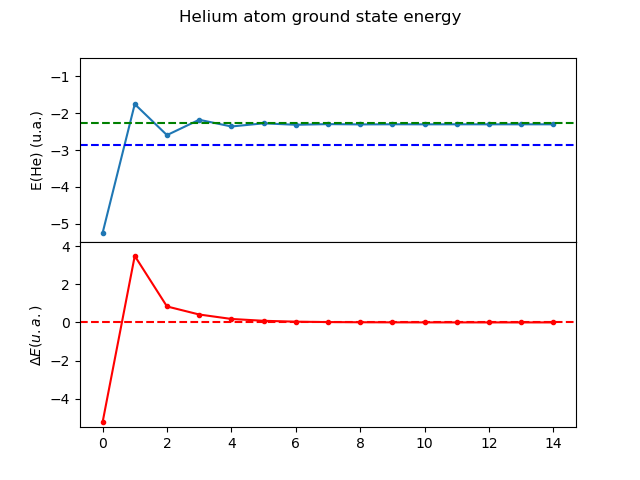
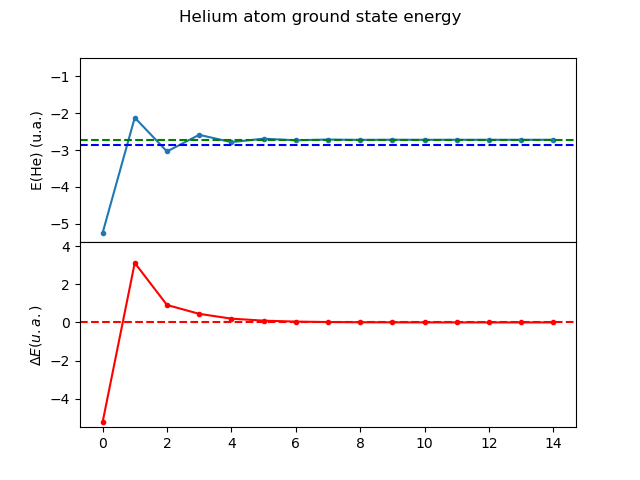
Fixed bug in calculation of LDA energy.

diff --git a/gscf.md b/gscf.md
@@ -2,19 +2,6 @@
 
 </div>
 
-<div class="SETUP drawer">
-
-``` python
-import numpy as np
-from scipy.integrate import odeint
-from scipy import integrate
-from scipy import interpolate
-from scipy.optimize import root_scalar
-import matplotlib.pyplot as plt
-```
-
-</div>
-
 # Introduction
 
 The Schrodinger equation is a certain class of Boundary Value Problem
@@ -88,9 +75,9 @@ $$
 $$
 
 $$
-\frac{1}{\sin{\theta}}\left (-\frac{\partial}{\partial \theta} \left( \sin{\theta} \frac{\partial}{\partial \theta} \right)+ \frac{m^2}{\sin{\theta}} \right)\Theta(\theta) = l(l+1)
+\frac{1}{\sin{\theta}}\left (-\frac{\partial}{\partial \theta} \left( \sin{\theta} \frac{\partial}{\partial \theta} \right)+ \frac{m^2}{\sin{\theta}} \right)\Theta(\theta) = l(l+1)\Theta(\theta)
 $$ $$
-\Theta(\theta)-\frac{\partial^2}{\partial \phi^2}\Phi(\phi) = m^2 \Phi(\phi)
+-\frac{\partial^2}{\partial \phi^2}\Phi(\phi) = m^2 \Phi(\phi)
 $$
 
 With only $r$ being the dependent variable i.e. the first equation. Here
@@ -125,6 +112,8 @@ $u(\infty)=0$.
 Vector Field
 
 ``` python
+<<importall>>
+
 def vectorfield(w, t, p):
     """
     Defines the differential equations for the coupled spring-mass system.
@@ -227,26 +216,10 @@ def shoot(E, t, l=0, z=1., fn=None, tckfn=None, fnx=None, tckfnx=None, fnc=None,
       print("[shoot] Error: Have to supply a vectorfield")
       return(0,0,0,0)
    u,fnout,tckfnout= solve_SLP(fn=fn, tckfn=None, fnx=fnx, tckfnx=tckfnx, fnc=fnc, tckfnc=tckfnc, e1=E, l1=l, z=z, t=t, xlim=xlim, ylim=ylim, vectorfield=vectorfield, isWF=isWF)
-   u = u/t**l
+
 
    # Extrapolate u to the origin r=0.
    return u[0] - t[0] * (u[1] - u[0])/(t[1] - t[0]), u, fnout, tckfnout
-```
-
-### Testing
-
-Test the function.
-
-``` python
-rr = np.logspace(-6, 5, 500)
-numpoints=400
-stoptime=15.0
-rr = np.array([stoptime * float(i+0.0001) / (numpoints - 1) for i in range(numpoints)])
-EE = [-1.1]
-u0s = [
-    shoot(EE[0], rr, l=0, vectorfield=vectorfield)[0] for E in EE
-]
-
 ```
 
 ### Plot
@@ -255,11 +228,9 @@ Plot to check results.
 
 <div class="RESULTS drawer">
 
-![](file:///home/chilkuri/Documents/codes/python/gscf/Fig-tmp.png)
+![](./Figs/Fig-1.png)
 
 </div>
-
-### Plots
 
 ### Main
 
@@ -267,7 +238,7 @@ Make some figures.
 
 <div class="RESULTS drawer">
 
-![](file:///home/chilkuri/Documents/codes/python/gscf/Fig-1.png)
+![](./Figs/Fig-2.png)
 
 </div>
 
@@ -308,10 +279,19 @@ def get_energy_and_density(l,rr,z=1.,E=None, vectorfield=None, urf=None, tckur=N
 Test the functions.
 
 ``` python
-numpoints=3200
-stoptime=60.0
-rr = np.array([stoptime * float(i+0.0001) / (numpoints - 1) for i in range(numpoints)])
-E_bound,_,_,_ = get_energy_and_density(0,rr,vectorfield=vectorfield)
+import sys
+# the mock-0.3.1 dir contains testcase.py, testutils.py & mock.py
+sys.path.append('/home/runner/work/gscf/gscf/src')
+sys.path.append('/home/runner/work/gscf/gscf')
+
+import numpy as np
+
+from src.hydrogen import get_energy_and_density, vectorfield
+
+def test_hydrogen(numpoints=3200, stoptime=60):
+    rr = np.array([stoptime * float(i+0.0001) / (numpoints - 1) for i in range(numpoints)])
+    E_bound,_,_,_ = get_energy_and_density(0,rr,vectorfield=vectorfield)
+    abs(E_bound - 0.5) <= 1.0E-10
 ```
 
 ### Main
@@ -320,7 +300,7 @@ Make figures.
 
 <div class="RESULTS drawer">
 
-![](file:///home/chilkuri/Documents/codes/python/gscf/Figs/Fig-1.png)
+![](./Figs/Fig-3.png)
 
 </div>
 
@@ -386,6 +366,8 @@ $$
 ### Vector Field
 
 ``` python
+<<importall>>
+
 def vectorfieldVH(w, t, p):
     """
     Defines the differential equations for the coupled spring-mass system.
@@ -423,7 +405,7 @@ x1,urf,tckur = solve_SLP(fn=nrf, tckfn=tck, t=rr, xlim=xlim, ylim=ylim, vectorfi
 
 <div class="RESULTS drawer">
 
-![](file:///home/chilkuri/Documents/codes/python/gscf/Figs/Fig-2.png)
+![](./Figs/Fig-4.png)
 
 </div>
 
@@ -438,6 +420,11 @@ the Hartee potential
 $$
 E = 2 \epsilon - \int \text{d}r\ V_H(r) u^2(r)
 $$
+
+The full equation the reads
+
+where we have subtracted the self energy which for the case of the
+Helium atom is exactly known to be $V_H$.
 
 ### Vector Field
 
@@ -522,19 +509,11 @@ while cnt < 9 and abs(Ediff) > 1.E-4:
     cnt += 1
 ```
 
-### Main
-
-<div class="RESULTS drawer">
-
-/tmp/babel-DzBZdg/python-LzHa4M
-
-</div>
-
 ## Figure
 
 <div class="RESULTS drawer">
 
-![](file:///home/chilkuri/Documents/codes/python/gscf/Figs/Fig-4.png)
+![](./Figs/Fig-5.png)
 
 </div>
 
@@ -668,7 +647,7 @@ Ediff = 10.
 while cnt < 30 and abs(Ediff) > 1.E-4:
 
     # Get density
-    E_bound,_,nrf,tck = get_energy_and_density(0,rr,z=2.,E=-1.00,vectorfield=vectorfieldX, urf=urf, tckur=tckur, fnx=urxf, tckfnx=tckur, fnc=nrf, tckfnc=tck)
+    E_bound,_,nrf,tck = get_energy_and_density(0,rr,z=2.,E=-1.00,vectorfield=vectorfieldX, urf=urf, tckur=tckur, fnx=urxf, tckfnx=tck, fnc=nrf, tckfnc=tck)
     # Get ur
     x1,urf,tckur = solve_SLP(fn=nrf, tckfn=tck, t=rr, xlim=xlim, ylim=ylim, vectorfield=vectorfieldVH, isWF=False)
     E1 = calcEnergyVx(E_bound, urf, tckur, urxf, tckur, nrf, tck, t=rr)
@@ -682,19 +661,18 @@ while cnt < 30 and abs(Ediff) > 1.E-4:
     cnt += 1
 ```
 
-### Main Shoot
+### The Exchange hole
+
+The exchange hole is a result of the electron-electron interaction which
+is missing in the Kohn-Sham model hamiltonian. This is the part that the
+functional is supposed to recover.
+
+Here, we can see the form of the exchange hole which shows up as a cusp
+at when the two electrons approach each other.
 
 <div class="RESULTS drawer">
 
-![](file:///home/chilkuri/Documents/codes/python/gscf/Fig-tmp5.png)
-
-</div>
-
-### Main
-
-<div class="RESULTS drawer">
-
-![](file:///home/chilkuri/Documents/codes/python/gscf/Figs/Fig-tmp6.png)
+![](./Figs/Fig-7.png)
 
 </div>
 
@@ -702,6 +680,6 @@ while cnt < 30 and abs(Ediff) > 1.E-4:
 
 <div class="RESULTS drawer">
 
-![](file:///home/chilkuri/Documents/codes/python/gscf/Figs/Fig-6.png)
+![](./Figs/Fig-6.png)
 
 </div>
